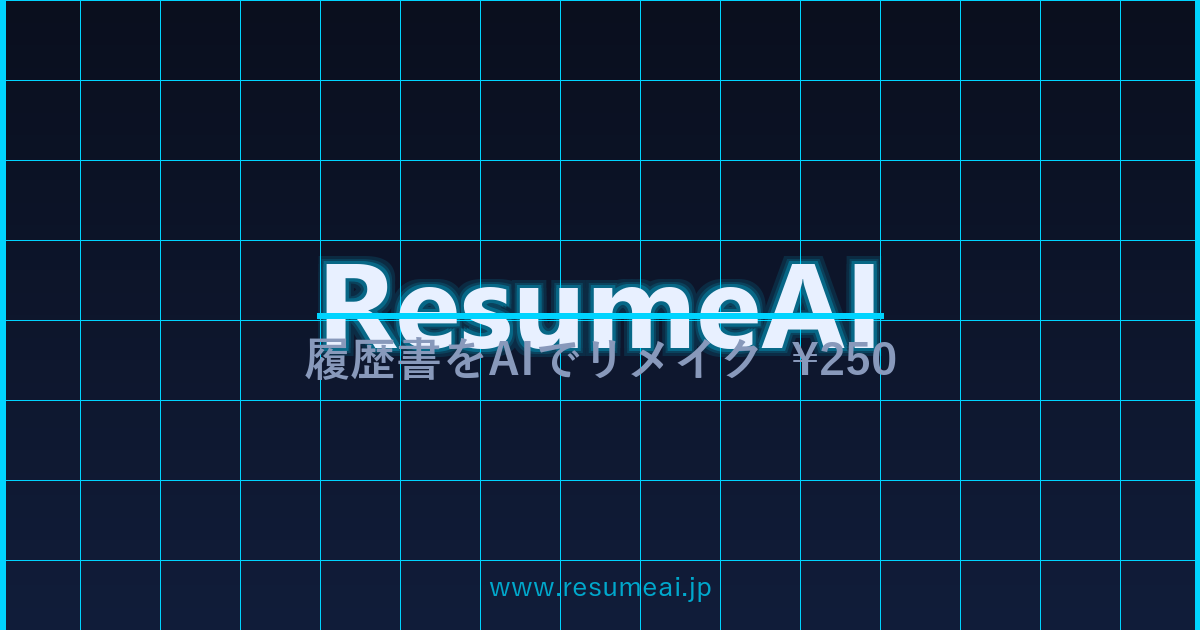
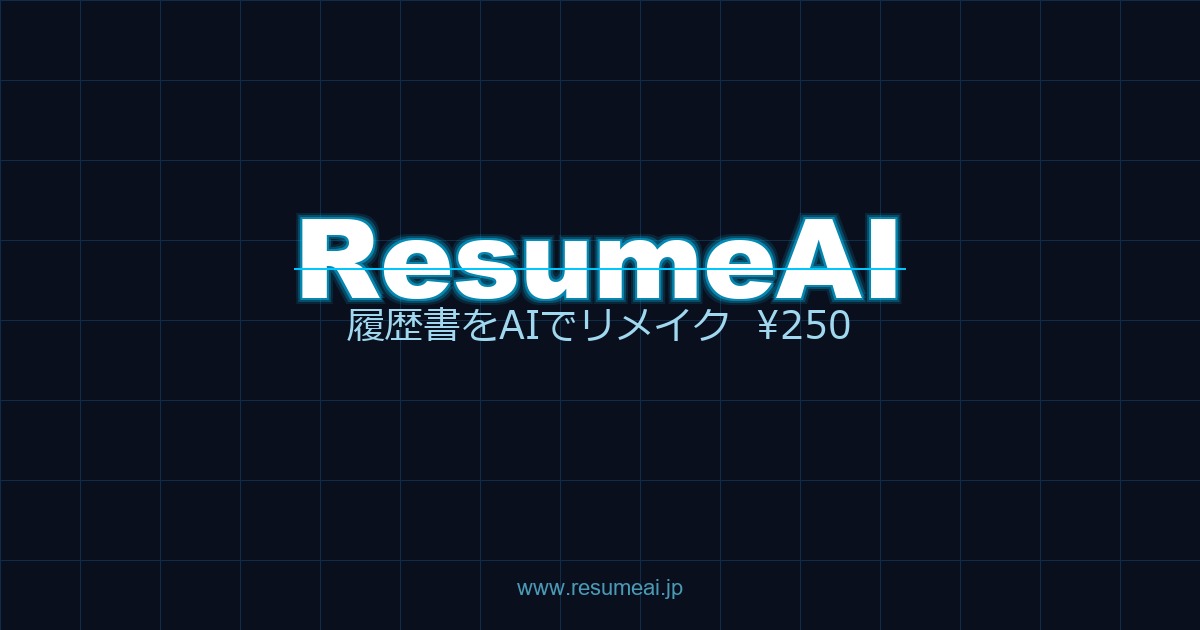
fix: OGP画像レイアウト修正

Changed region(s): [[0.0, 0.0, 1.0, 1.0], [0.2467, 0.3317, 0.7708, 0.6032]]

diff --git a/generate_ogp.py b/generate_ogp.py
@@ -1,0 +1,74 @@
+"""OGP画像生成スクリプト (1200x630)
+ResumeAI ロゴの下にサブタイトルを配置する。
+"""
+from PIL import Image, ImageDraw, ImageFont
+import math
+
+W, H = 1200, 630
+OUT = r"C:\clude-code\resume-saas\frontend\ogp.png"
+
+img = Image.new("RGB", (W, H), "#0a0f1e")
+draw = ImageDraw.Draw(img)
+
+# グリッド
+GRID_COLOR = "#0d2d4a"
+CELL = 80
+for x in range(0, W + CELL, CELL):
+    draw.line([(x, 0), (x, H)], fill=GRID_COLOR, width=1)
+for y in range(0, H + CELL, CELL):
+    draw.line([(0, y), (W, y)], fill=GRID_COLOR, width=1)
+
+# フォント
+font_logo = ImageFont.truetype(r"C:\Windows\Fonts\ariblk.ttf", 110)
+font_sub  = ImageFont.truetype(r"C:\Windows\Fonts\meiryo.ttc",  38)
+font_url  = ImageFont.truetype(r"C:\Windows\Fonts\arial.ttf",   22)
+
+# --- ロゴ "ResumeAI" ---
+LOGO_TEXT = "ResumeAI"
+bbox = draw.textbbox((0, 0), LOGO_TEXT, font=font_logo)
+logo_w = bbox[2] - bbox[0]
+logo_h = bbox[3] - bbox[1]
+
+# ロゴを上寄り中央（縦全体の40%付近）に配置
+logo_x = (W - logo_w) // 2
+logo_y = int(H * 0.28)
+
+# グロー効果（外側に薄いシアンを数層描く）
+for offset, alpha in [(6, 30), (4, 60), (2, 120)]:
+    glow_img = Image.new("RGBA", (W, H), (0, 0, 0, 0))
+    gd = ImageDraw.Draw(glow_img)
+    for dx in [-offset, 0, offset]:
+        for dy in [-offset, 0, offset]:
+            gd.text((logo_x + dx, logo_y + dy), LOGO_TEXT,
+                    font=font_logo, fill=(0, 200, 255, alpha))
+    img.paste(Image.alpha_composite(
+        img.convert("RGBA"), glow_img).convert("RGB"))
+    draw = ImageDraw.Draw(img)
+
+# ロゴ本体（白）
+draw.text((logo_x, logo_y), LOGO_TEXT, font=font_logo, fill="#ffffff")
+
+# アクセントライン（ロゴ直下）
+line_y = logo_y + logo_h + 12
+draw.line([(logo_x, line_y), (logo_x + logo_w, line_y)],
+          fill="#00c8ff", width=2)
+
+# --- サブタイトル "履歴書をAIでリメイク  ¥250" ---
+SUB_TEXT = "履歴書をAIでリメイク  ¥250"
+sbbox = draw.textbbox((0, 0), SUB_TEXT, font=font_sub)
+sub_w = sbbox[2] - sbbox[0]
+
+# ロゴ下端から十分な余白（40px）を取って配置
+sub_x = (W - sub_w) // 2
+sub_y = line_y + 30
+
+draw.text((sub_x, sub_y), SUB_TEXT, font=font_sub, fill="#a0d8ef")
+
+# --- URL ---
+URL_TEXT = "www.resumeai.jp"
+ubbox = draw.textbbox((0, 0), URL_TEXT, font=font_url)
+url_w = ubbox[2] - ubbox[0]
+draw.text(((W - url_w) // 2, H - 55), URL_TEXT, font=font_url, fill="#4a9ab5")
+
+img.save(OUT, "PNG", optimize=True)
+print(f"保存完了: {OUT}")
